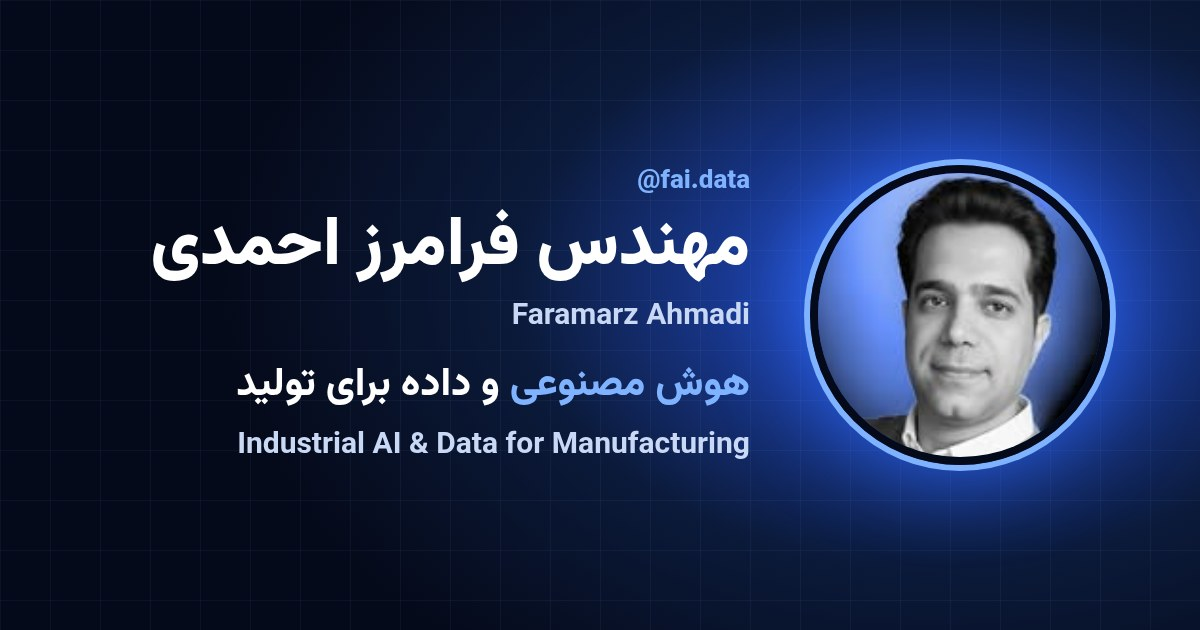
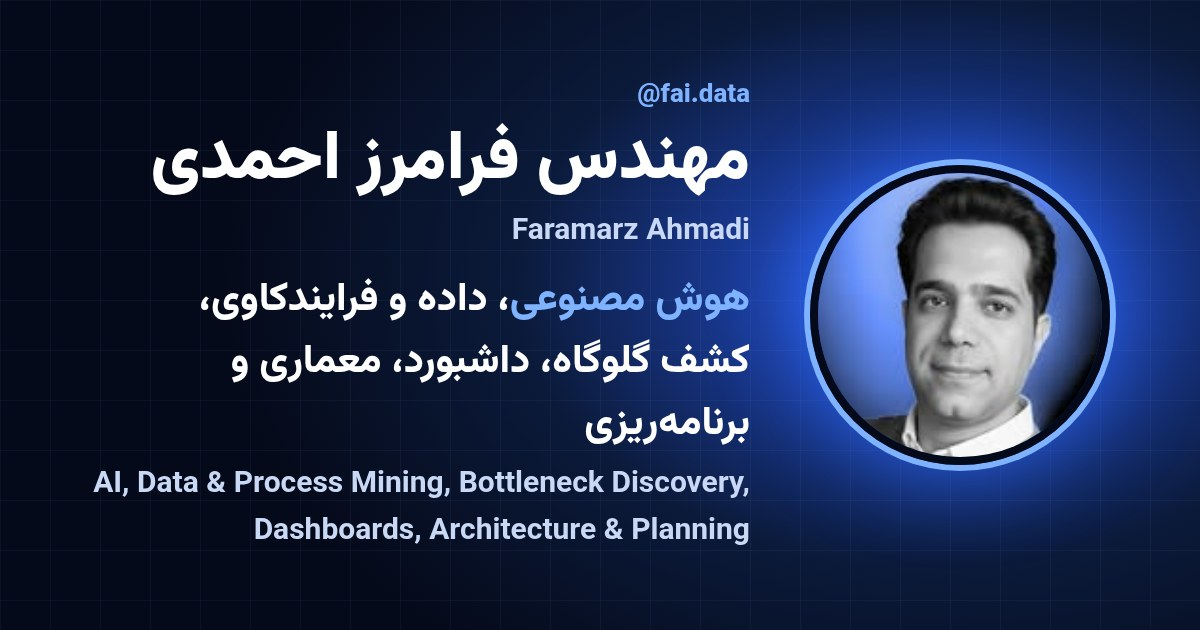
Update tagline (FA/EN)

diff --git a/index.html b/index.html
@@ -3,8 +3,8 @@
 <head>
 <meta charset="utf-8">
 <meta name="viewport" content="width=device-width,initial-scale=1,viewport-fit=cover">
-<title>مهندس فرامرز احمدی | Faramarz Ahmadi — هوش مصنوعی و داده برای تولید</title>
-<meta name="description" content="مهندس فرامرز احمدی، مهندس صنایع و مشاور: هوش مصنوعی صنعتی، داده، ERP، فرایندکاوی، برنامهریزی تولید و داشبورد. Faramarz Ahmadi — Industrial AI & Data for Manufacturing.">
+<title>مهندس فرامرز احمدی | Faramarz Ahmadi — هوش مصنوعی، داده و فرایندکاوی، کشف گلوگاه، داشبورد، معماری و برنامهریزی</title>
+<meta name="description" content="مهندس فرامرز احمدی، مهندس صنایع و مشاور: هوش مصنوعی صنعتی، داده، ERP، فرایندکاوی، برنامهریزی تولید و داشبورد. Faramarz Ahmadi — AI, Data & Process Mining, Bottleneck Discovery, Dashboards, Architecture & Planning.">
 <meta name="theme-color" content="#050A1A">
 <!-- OG: after publishing, run ./set_url.sh https://YOUR-URL to make og:image absolute (required by Instagram/Telegram/WhatsApp previews) -->
 <meta property="og:type" content="website">
@@ -14,14 +14,14 @@
 <meta property="og:locale" content="fa_IR">
 <meta property="og:locale:alternate" content="en_US">
 <meta property="og:title" content="مهندس فرامرز احمدی | Faramarz Ahmadi">
-<meta property="og:description" content="هوش مصنوعی و داده برای تولید · Industrial AI &amp; Data for Manufacturing">
+<meta property="og:description" content="هوش مصنوعی، داده و فرایندکاوی، کشف گلوگاه، داشبورد، معماری و برنامهریزی · AI, Data &amp; Process Mining, Bottleneck Discovery, Dashboards, Architecture &amp; Planning">
 <meta property="og:image" content="https://faramarzah.github.io/fai-data-landing/assets/og.jpg">
 <meta property="og:image:width" content="1200">
 <meta property="og:image:height" content="630">
-<meta property="og:image:alt" content="Faramarz Ahmadi — Industrial AI & Data for Manufacturing">
+<meta property="og:image:alt" content="Faramarz Ahmadi — AI, Data & Process Mining, Bottleneck Discovery, Dashboards, Architecture & Planning">
 <meta name="twitter:card" content="summary_large_image">
 <meta name="twitter:title" content="مهندس فرامرز احمدی | Faramarz Ahmadi">
-<meta name="twitter:description" content="Industrial AI &amp; Data for Manufacturing · هوش مصنوعی و داده برای تولید">
+<meta name="twitter:description" content="AI, Data &amp; Process Mining, Bottleneck Discovery, Dashboards, Architecture &amp; Planning · هوش مصنوعی، داده و فرایندکاوی، کشف گلوگاه، داشبورد، معماری و برنامهریزی">
 <meta name="twitter:image" content="https://faramarzah.github.io/fai-data-landing/assets/og.jpg">
 <link rel="icon" href="assets/favicon.svg" type="image/svg+xml">
 <link rel="apple-touch-icon" href="assets/profile.jpg">
@@ -148,7 +148,7 @@ a:focus-visible,button:focus-visible{outline:2px solid var(--acc);outline-offset
   <span class="eyebrow"><span lang="fa">مهندس صنایع و مشاور</span><span lang="en">Industrial Engineer &amp; Consultant</span></span>
   <h1 id="name"><span lang="fa">مهندس فرامرز احمدی</span><span lang="en">Faramarz Ahmadi</span></h1>
   <div class="sub-name"><span lang="fa" class="ltr">Faramarz Ahmadi</span><span lang="en">مهندس فرامرز احمدی</span></div>
-  <p class="tagline"><span lang="fa"><span class="acc">هوش مصنوعی</span> و داده برای تولید</span><span lang="en"><span class="acc">Industrial AI</span> &amp; Data for Manufacturing</span></p>
+  <p class="tagline"><span lang="fa"><span class="acc">هوش مصنوعی</span>، داده و فرایندکاوی، کشف&nbsp;گلوگاه، داشبورد، معماری و برنامهریزی</span><span lang="en"><span class="acc">AI</span>, Data &amp; Process Mining, Bottleneck Discovery, Dashboards, Architecture &amp; Planning</span></p>
   <p class="lead"><span lang="fa">از شناسایی گلوگاه و برنامهریزی تولید تا ERP، فرایندکاوی و داشبورد مدیریتی؛ کمک میکنم کارخونه با داده تصمیم بگیره.</span><span lang="en">From bottleneck detection and production planning to ERP, process mining and management dashboards: I help factories make decisions with data.</span></p>
   <div class="cta-row">
    <a class="cta" href="https://ig.me/m/fai.data" target="_blank" rel="noopener">
